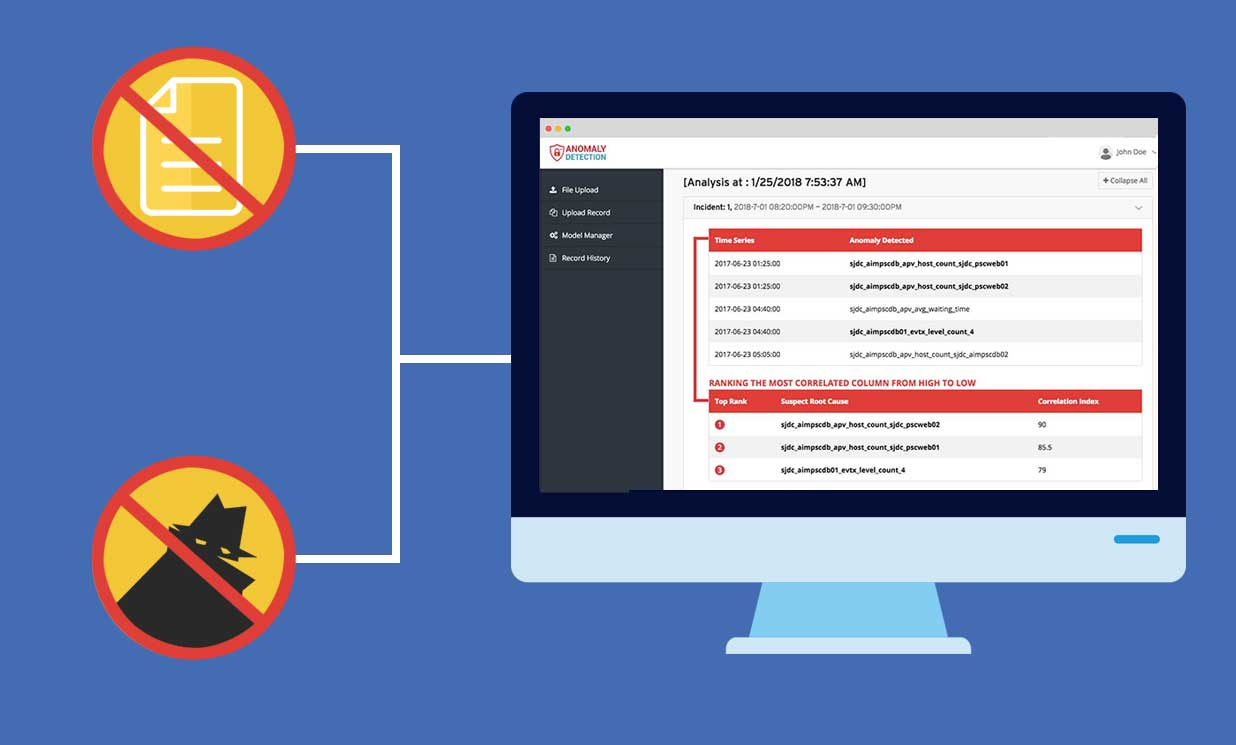
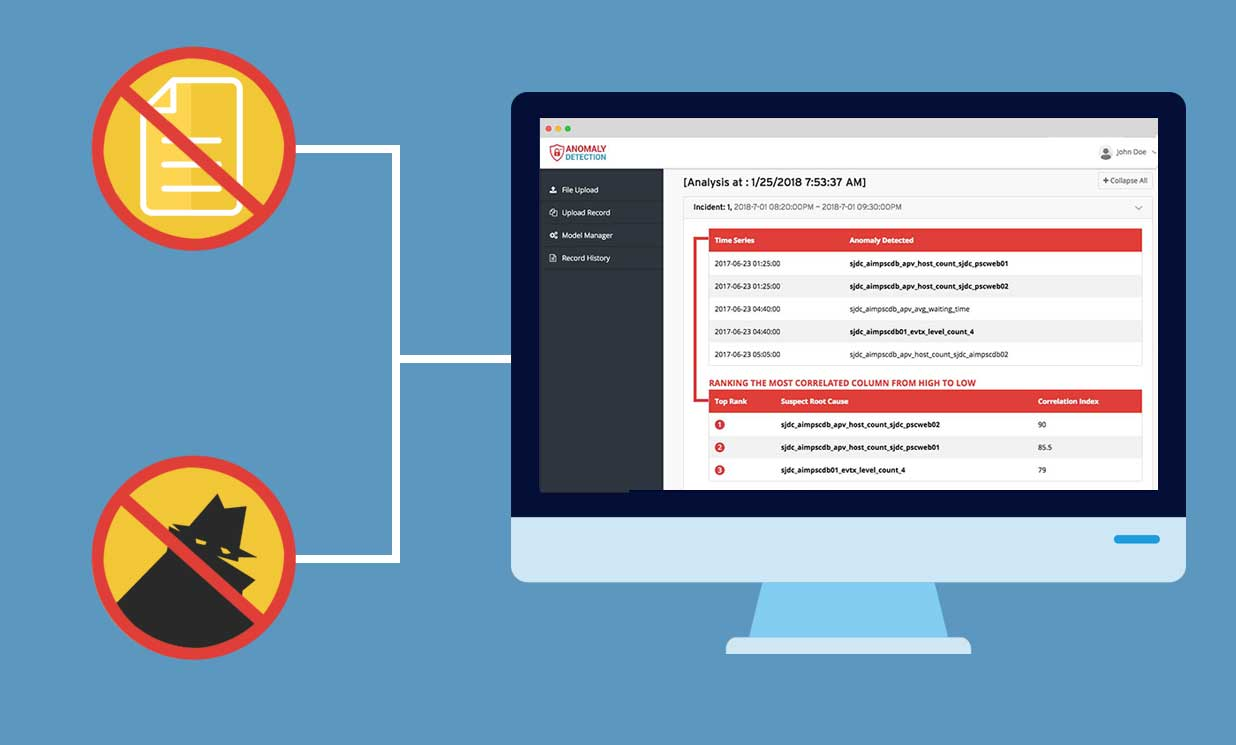
ss

diff --git a/index.html b/index.html
@@ -117,7 +117,7 @@
                 <div class="row">
                     <div class="flexbox_container">
                         <div class="flex_child flex_xs_grid_2_12 img_text_content">
-                            <img src="images/time_series.jpg" alt="panel 1">
+                            <img src="images/3rd.jpg" alt="panel 1">
                         </div>
                         <div class="flex_child flex_xs_grid_2_12 landing_text_wrapper">
                             <div class="flexbox_container_center">
